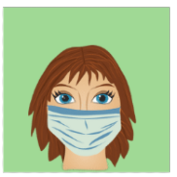
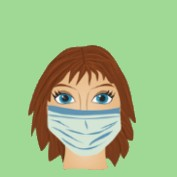
overlay div

diff --git a/index.html b/index.html
@@ -79,7 +79,7 @@
                 <div class="question-bar" style="width: 10%;"><p id="questionCounter">1/10</p></div>
             </div>
         </div>
-
+        <div id="overlay" class="display_none"></div>
     </div>
     <script src="script.js"></script>
 </body>

diff --git a/style.css b/style.css
@@ -178,3 +178,9 @@ h4 {
     width: 10vw;
     margin-left: 5vw;
 }
+
+#overlay {
+    width: 170px;
+    height: 170px;
+    background-color: #24222283;
+}
